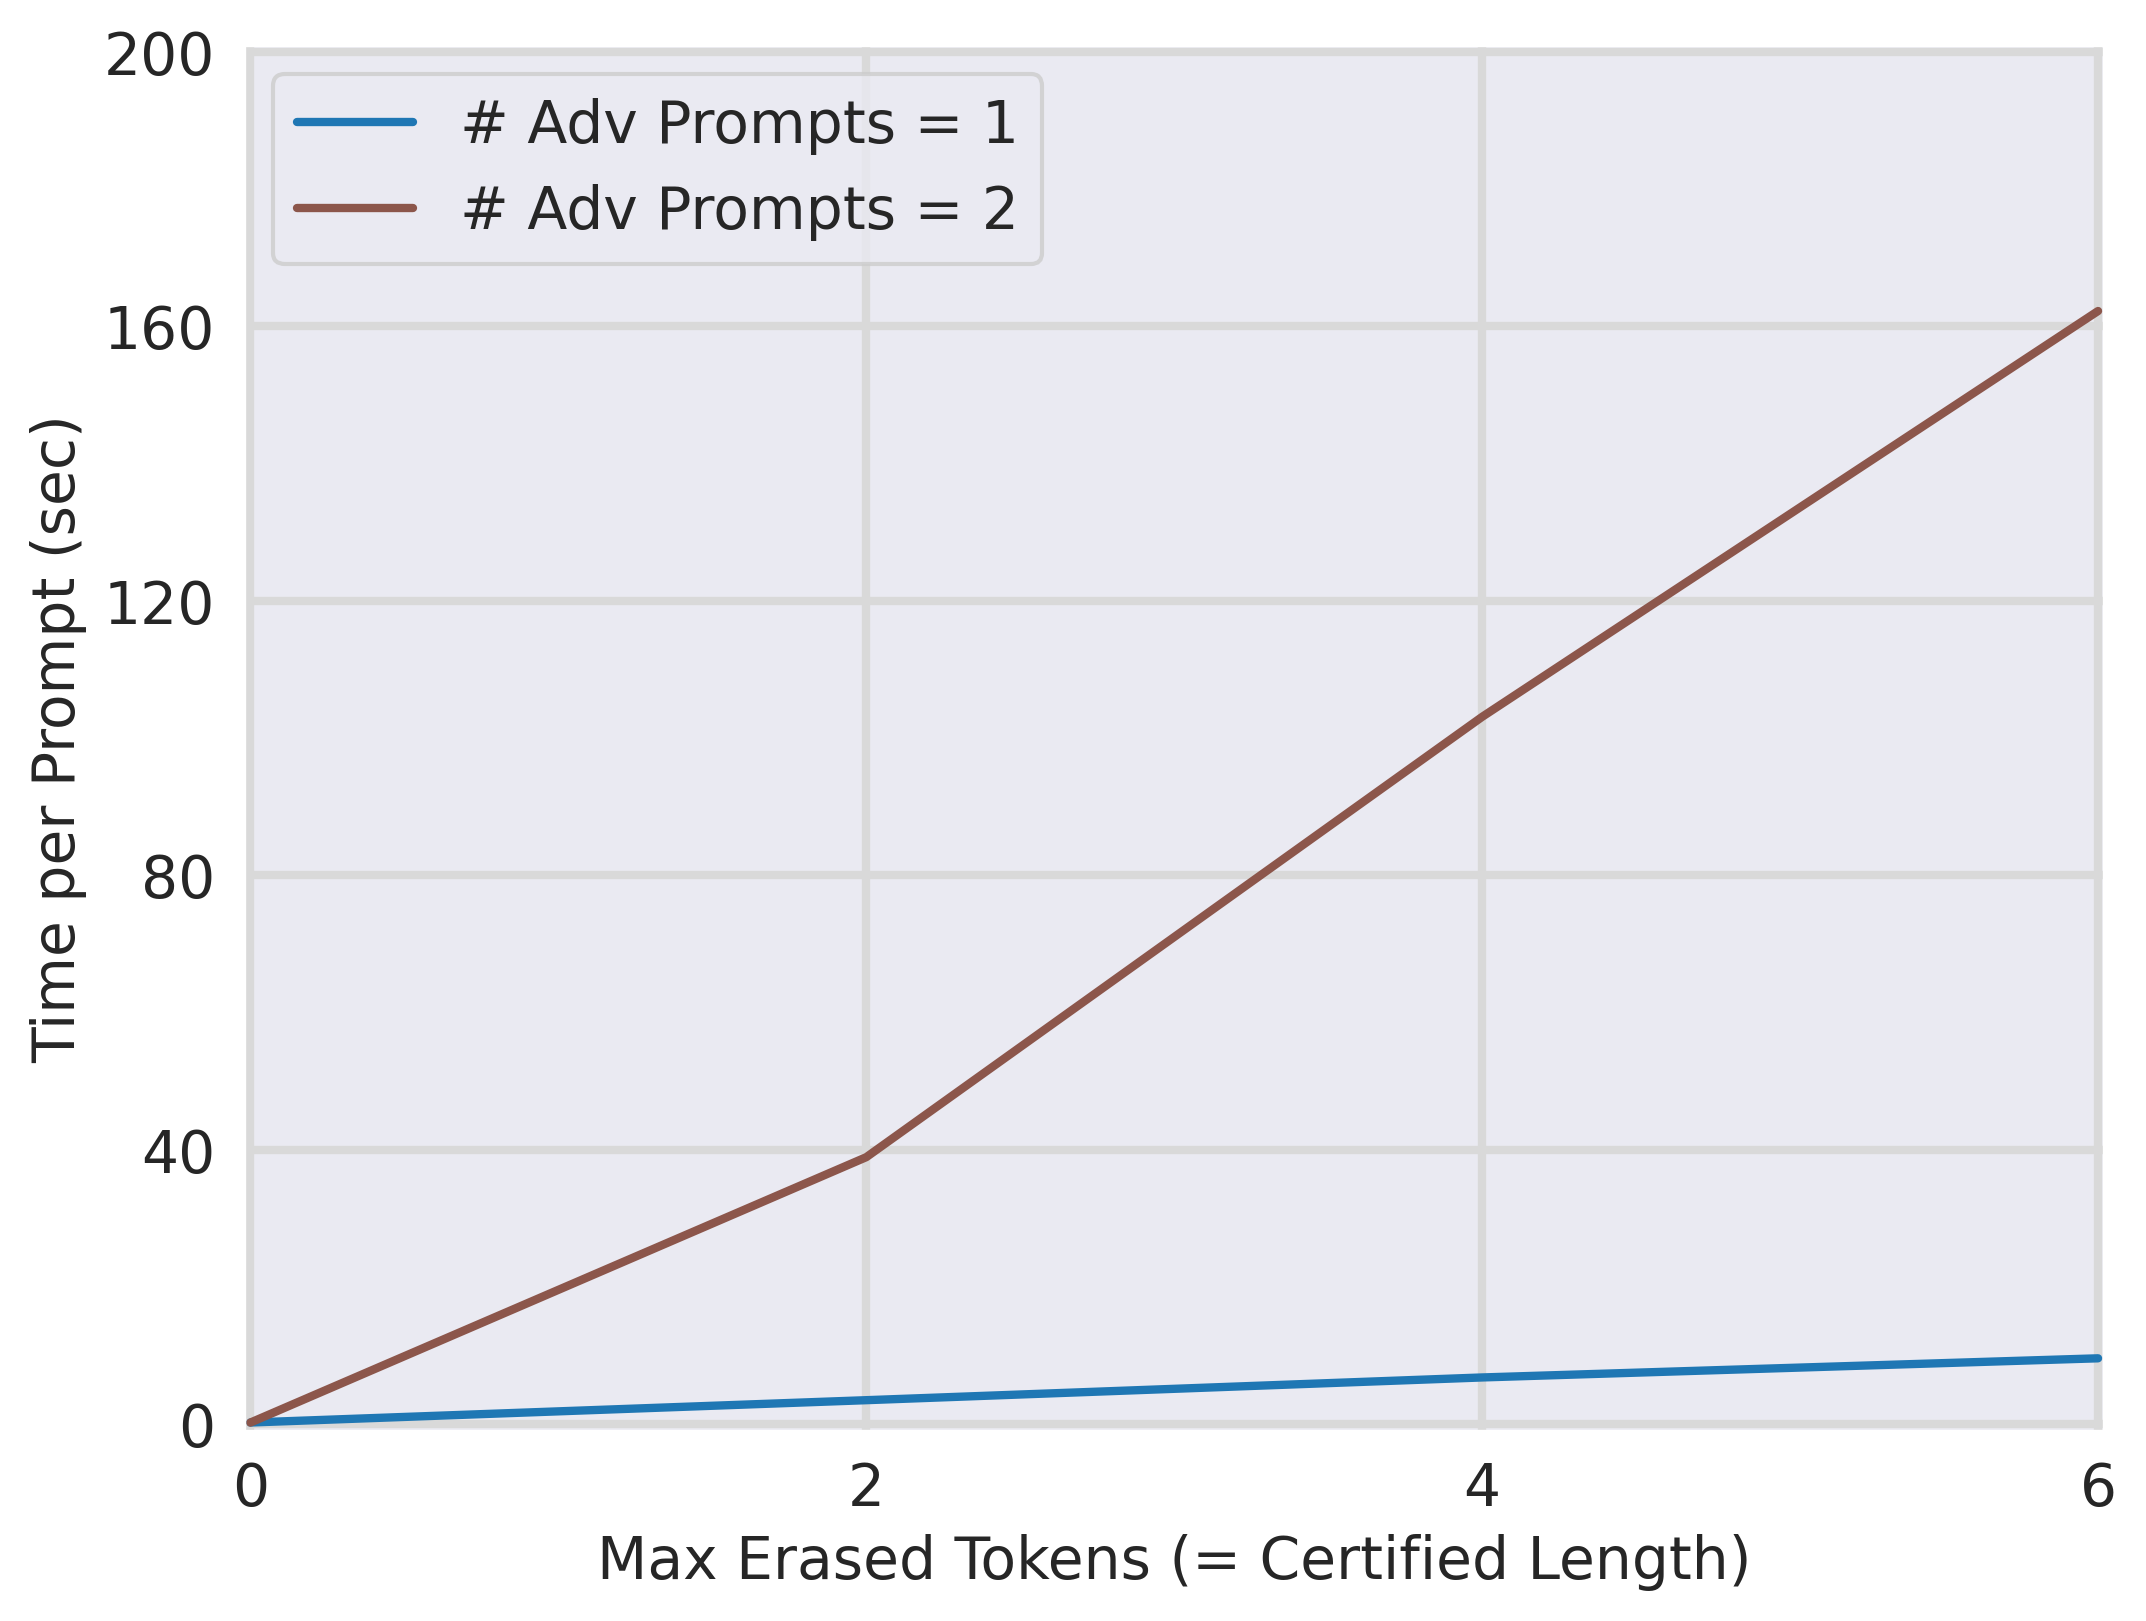
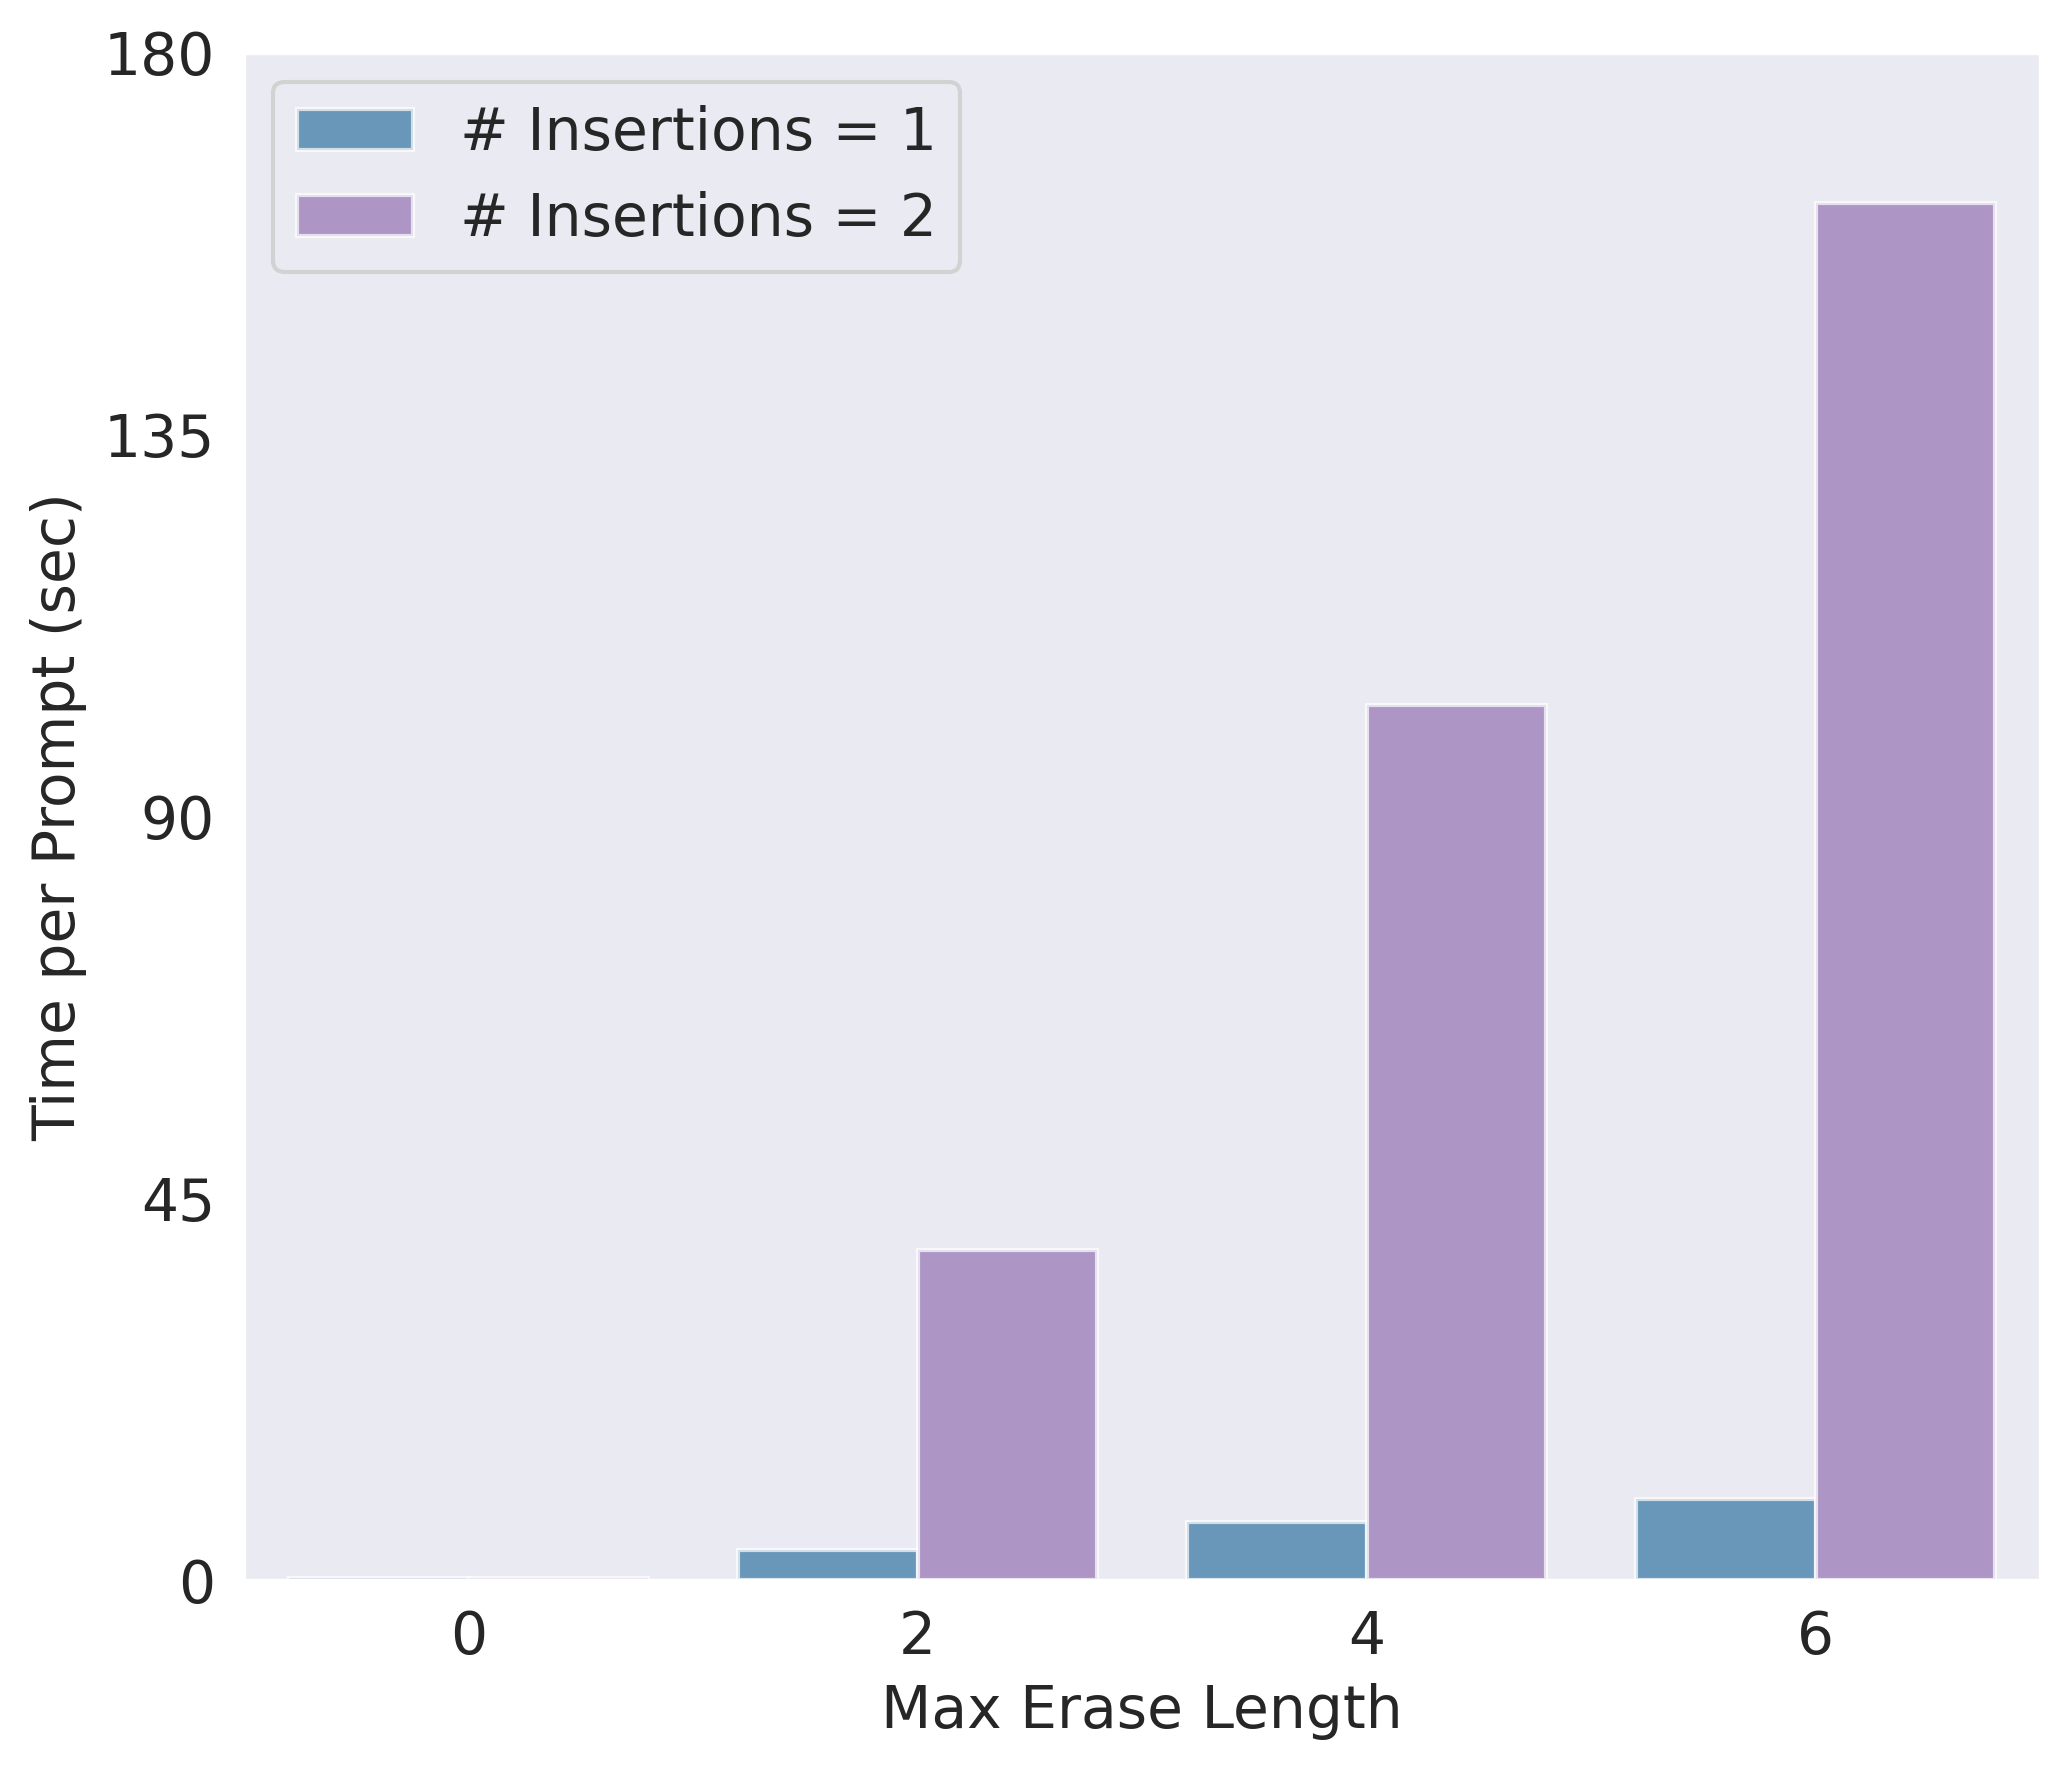
additional results and plots

diff --git a/defenses.py b/defenses.py
@@ -52,18 +52,27 @@ def is_harmful(prompts, pipeline, tokenizer, randomized=False, prompt_sampling_r
         response = seq[0]['generated_text']
         last_message = response.split("[/INST]\n")[-1].strip()
 
+        # print("RESPONSE: " + response)
+
         # Check for "Not harmful" in the last message
         if any([prefix in last_message for prefix in PREFIXES]):
             list_of_bools.append(False)
             # print("RESPONSE: " + response)
+            # print("False")
 
         else:
             list_of_bools.append(True)
             # print("RESPONSE: " + response)
+            # print("True")
+
+        # input("Press Enter to continue...")
 
     return list_of_bools
 
-def erase_and_check(prompt, pipeline, tokenizer, max_erase=20, min_length=4, randomized=False, prompt_sampling_ratio=0.1):
+def erase_and_check(prompt, pipeline, tokenizer, max_erase=20, min_length=4, num_adv=2, randomized=False, prompt_sampling_ratio=0.1, mode="suffix"):
+    if mode
+
+def erase_and_check_suffix(prompt, pipeline, tokenizer, max_erase=20, min_length=4, randomized=False, prompt_sampling_ratio=0.1):
     """
     Erase the prompt one token at a time from the end and check if any of the generated substrings is harmful.
     Args:
@@ -92,7 +101,7 @@ def erase_and_check(prompt, pipeline, tokenizer, max_erase=20, min_length=4, ran
     list_of_bools = is_harmful(prompt_list, pipeline, tokenizer, randomized=randomized, prompt_sampling_ratio=prompt_sampling_ratio)
     return any(list_of_bools)
 
-def erase_and_check_subsets(prompt, pipeline, tokenizer, max_erase=2, min_length=4, randomized=False, prompt_sampling_ratio=0.1):
+def erase_and_check_infusion(prompt, pipeline, tokenizer, max_erase=2, min_length=4, randomized=False, prompt_sampling_ratio=0.1):
     """
     Erase subsets of the prompt and check if any of the generated substrings is harmful.
     This method is a certifeid defense against attacks where adversarial tokens could be inserted anywhere in the prompt,
@@ -140,7 +149,7 @@ def delete_by_indices(data_list, indices):
     return data_list
 
 
-def erase_and_check_contiguous(prompt, pipeline, tokenizer, max_erase=5, min_length=4, num_adv=2, randomized=False, prompt_sampling_ratio=0.1):
+def erase_and_check_insertion(prompt, pipeline, tokenizer, max_erase=5, min_length=4, num_adv=2, randomized=False, prompt_sampling_ratio=0.1):
     """
     A generalized version of erase_and_check() that can defend against multiple adversarial prompts inserted into the prompt
     where each adversarial prompt is a contiguous block of adversarial tokens.

diff --git a/plot scripts/plot_acc.py b/plot scripts/plot_acc.py
@@ -25,18 +25,34 @@ for key, value in data.items():
 
 # Plotting
 sns.set_style("darkgrid", {"grid.color": ".85"})
-plt.figure(figsize=(8, 6))
-plt.plot(max_erase_values, percent_safe_values, '-', color='tab:green', label='Safe Prompts (%, empirical)', linewidth=2)
-plt.axhline(y=93.6, color='tab:blue', linewidth=2, linestyle='--', label='Certified Harmful Prompts (93.6%)')
-plt.xlabel('Max Erased Tokens (= Certified Length)', fontsize=14, labelpad=10)
-plt.ylabel('Accuracy (%)', fontsize=14)
-plt.xlim(-0.05, 12.05)
-plt.xticks(range(0, 13, 4))
+plt.figure(figsize=(7, 6))
+# plt.plot(max_erase_values, percent_safe_values, '-', color='tab:green', label='% Safe Prompts Labeled Safe', linewidth=2)
+plt.bar(max_erase_values[0:4], percent_safe_values[0:4], color='tab:green', width=(0.2 * max_erase_values[3]), alpha=0.7)
+# Write the values on top of the bars
+for i, v in enumerate(percent_safe_values[0:4]):
+    if i == 0:
+        plt.text(max_erase_values[i] - (0.08 * max_erase_values[3]),  v - 5, f'{v:.1f}%', color='white', fontsize=14)
+    elif i == 1:
+        plt.text(max_erase_values[i] - (0.07 * max_erase_values[3]),  v - 5, f'{v:.1f}%', color='white', fontsize=14)
+    else:
+        plt.text(max_erase_values[i] - (0.07 * max_erase_values[3]),  v + 1, f'{v:.1f}%', color='gray', fontsize=14)
+# plt.axhline(y=93.6, color='tab:blue', linewidth=2, linestyle='--', label='Certified Harmful Prompts (93.6%)')
+# plt.xlabel('Max Erase Length (= Certified Length)', fontsize=18, labelpad=10)
+plt.xlabel('Max Tokens Erased (= Certified Size)', fontsize=18, labelpad=10)
+plt.ylabel('% Safe Prompts Labeled Safe', fontsize=18)
+# plt.xlim(-0.05, 12.05)
+# plt.xticks(range(0, 13, 4))
 # plt.xlim(-0.1, 30.1)
 # plt.xticks(range(0, 31, 10))
-plt.ylim(-0.5, 100.5)
-plt.grid(True, linewidth=2)
-plt.legend(loc="lower right",fontsize=14)
+plt.xticks(max_erase_values[0:4])
+plt.ylim(0, 100)
+# plt.grid(True, linewidth=2)
+
+# plt.legend(loc="lower right",fontsize=18)
+# Remove grid lines
+plt.gca().yaxis.grid(False)
+plt.gca().xaxis.grid(False)
+
 plt.tick_params(axis='both', labelsize=14)
 plt.tight_layout()
 

diff --git a/main.py b/main.py
@@ -8,7 +8,7 @@ import json
 import random
 import argparse
 
-from defenses import erase_and_check, is_harmful, progress_bar, erase_and_check_contiguous, erase_and_check_subsets
+from defenses import erase_and_check_suffix, is_harmful, progress_bar, erase_and_check_insertion, erase_and_check_infusion
 
 parser = argparse.ArgumentParser(description='Check safety of prompts.')
 parser.add_argument('--num_prompts', type=int, default=2,
@@ -47,6 +47,8 @@ if eval_type == "safe":
     print("Maximum tokens to erase: " + str(max_erase))
     if mode == "contiguous":
         print("Number of adversarial prompts to defend against: " + str(num_adv))
+
+print("Randomize: " + str(args.randomize))
 
 # Create results directory if it doesn't exist
 if not os.path.exists(results_dir):
@@ -95,13 +97,13 @@ if eval_type == "safe":
     for i in range(num_prompts):
         prompt = prompts[i]
         if mode == "suffix":
-            harmful = erase_and_check(prompt, pipeline, tokenizer, max_erase=max_erase, 
+            harmful = erase_and_check_suffix(prompt, pipeline, tokenizer, max_erase=max_erase, 
                                       randomized=args.randomize, prompt_sampling_ratio=args.sampling_ratio)
         elif mode == "subset":
-            harmful = erase_and_check_subsets(prompt, pipeline, tokenizer, max_erase=max_erase,
+            harmful = erase_and_check_infusion(prompt, pipeline, tokenizer, max_erase=max_erase,
                                       randomized=args.randomize, prompt_sampling_ratio=args.sampling_ratio)
         elif mode == "contiguous":
-            harmful = erase_and_check_contiguous(prompt, pipeline, tokenizer, max_erase=max_erase, num_adv=num_adv,
+            harmful = erase_and_check_insertion(prompt, pipeline, tokenizer, max_erase=max_erase, num_adv=num_adv,
                                       randomized=args.randomize, prompt_sampling_ratio=args.sampling_ratio)
         if not harmful:
             count_safe += 1

diff --git a/plot scripts/plot_acc_multi.py b/plot scripts/plot_acc_multi.py
@@ -34,22 +34,30 @@ df = pd.DataFrame(plot_data)
 sns.set_style("darkgrid", {"grid.color": ".85"})
 
 # Create the plot
-colors = ['tab:green', 'tab:purple']
-plt.figure(figsize=(8, 6))
-for num_adv in [1, 2]:
-    subset = df[df['num_adv'] == num_adv]
-    plt.plot(subset['max_erase'], subset['percent_safe'], label=f'# Adv Prompts = {num_adv}', linewidth=2, color=colors[num_adv - 1])
+colors = ['tab:green', 'tab:olive']
+plt.figure(figsize=(7, 6))
+# Bar plot
+sns.barplot(x='max_erase', y='percent_safe', hue='num_adv', data=df, palette=colors, alpha=0.7)
+# for num_adv in [1, 2]:
+#     subset = df[df['num_adv'] == num_adv]
+#     # plt.plot(subset['max_erase'], subset['percent_safe'], label=f'# Adv Prompts = {num_adv}', linewidth=2, color=colors[num_adv - 1])
+#     plt.bar(subset['max_erase'], subset['percent_safe'], color=colors[num_adv - 1], alpha=0.5, width=1, label=f'# Adv Prompts = {num_adv}')
 
 # Set the labels, title, and legend
-plt.xlabel("Max Erased Tokens (= Certified Length)", fontsize=14)
-plt.ylabel("Accuracy (%)", fontsize=14)
-plt.legend(loc='lower right', fontsize=14)
+plt.xlabel("Max Erase Length (= Certified Length)", fontsize=14)
+plt.ylabel("% Safe Prompts Labeled Safe", fontsize=14)
+# plt.legend(loc='lower right', fontsize=14)
+# change labels for the bar plots in the legend
+handles, labels = plt.gca().get_legend_handles_labels()
+labels = ['# Insertions = 1', '# Insertions = 2']
+plt.legend(handles, labels, loc='lower right', fontsize=14)
+
 plt.xticks(fontsize=14)
-plt.xlim(-0.02, 6.02)
-plt.xticks(range(0, 7, 2))
-plt.ylim(-0.5, 100.5)
+# plt.xlim(-0.02, 6.02)
+# plt.xticks(df['max_erase'])
+plt.ylim(0, 100)
 plt.yticks(fontsize=14)
-plt.grid(True, linewidth=2)
+plt.grid(False)
 
 # Save the plot to a PNG file
 plot_file = results_file.replace('.json', '_acc.png')

diff --git a/plot scripts/plot_time_multi.py b/plot scripts/plot_time_multi.py
@@ -34,21 +34,30 @@ df = pd.DataFrame(plot_data)
 sns.set_style("darkgrid", {"grid.color": ".85"})
 
 # Create the plot
-colors = ['tab:blue', 'tab:brown']
-plt.figure(figsize=(8, 6))
-for num_adv in [1, 2]:
-    subset = df[df['num_adv'] == num_adv]
-    plt.plot(subset['max_erase'], subset['time_per_prompt'], label=f'# Adv Prompts = {num_adv}', linewidth=2, color=colors[num_adv - 1])
+colors = ['tab:blue', 'tab:purple']
+plt.figure(figsize=(7, 6))
+# Bar plot
+sns.barplot(x='max_erase', y='time_per_prompt', hue='num_adv', data=df, palette=colors, alpha=0.7)
+# for num_adv in [1, 2]:
+#     subset = df[df['num_adv'] == num_adv]
+#     plt.plot(subset['max_erase'], subset['time_per_prompt'], label=f'# Adv Prompts = {num_adv}', linewidth=2, color=colors[num_adv - 1])
 
 # Set the labels, title, and legend
-plt.xlabel("Max Erased Tokens (= Certified Length)", fontsize=14)
+plt.xlabel("Max Erase Length", fontsize=14)
 plt.ylabel("Time per Prompt (sec)", fontsize=14)
-plt.legend(loc='upper left', fontsize=14)
-plt.xlim(-0.02, 6.02)
-plt.xticks(range(0, 7, 2), fontsize=14)
-plt.ylim(-1, 201)
-plt.yticks(range(0, 201, 40), fontsize=14)
-plt.grid(True, linewidth=2)
+# plt.legend(loc='upper left', fontsize=14)
+# change labels for the bar plots in the legend
+handles, labels = plt.gca().get_legend_handles_labels()
+labels = ['# Insertions = 1', '# Insertions = 2']
+plt.legend(handles, labels, loc='upper left', fontsize=14)
+# plt.xlim(-0.02, 6.02)
+# plt.xticks(range(0, 7, 2), fontsize=14)
+plt.ylim(0, 180)
+plt.yticks(range(0, 181, 45), fontsize=14)
+plt.grid(False)
+
+plt.tick_params(axis='both', labelsize=14)
+plt.tight_layout()
 
 # Save the plot to a PNG file
 plot_file = results_file.replace('.json', '_time.png')

diff --git a/plot scripts/plot_time.py b/plot scripts/plot_time.py
@@ -26,24 +26,36 @@ for key, value in data.items():
 
 # Plotting
 sns.set_style("darkgrid", {"grid.color": ".85"})
-plt.figure(figsize=(8, 6))
-plt.plot(max_erase_values, time_per_prompt_values, linewidth=2)
-plt.xlabel('Max Erased Tokens', fontsize=14, labelpad=10)
-plt.ylabel('Time per Prompt (sec)', fontsize=14, labelpad=10)
+plt.figure(figsize=(7, 6))
+# plt.plot(max_erase_values, time_per_prompt_values, linewidth=2)
+plt.bar(max_erase_values[0:4], time_per_prompt_values[0:4], color='tab:blue', alpha=0.7, width=(0.2 * max_erase_values[3]))
+# Write the values on top of the bars
+for i, v in enumerate(time_per_prompt_values[0:4]):
+    plt.text(max_erase_values[i] - (0.06 * max_erase_values[3]),  v + 0.6, f'{v:.2f}', color='gray', fontsize=14)
+# plt.xlabel('Max Erase Length', fontsize=18, labelpad=10)
+plt.xlabel('Max Tokens Erased', fontsize=18, labelpad=10)
+plt.ylabel('Time per Prompt (sec)', fontsize=18, labelpad=10)
 
-plt.xlim(-0.05, 12.04)
-plt.xticks(range(0, 13, 4))
-plt.ylim(-0.09, 15.09)
-plt.yticks(np.arange(0, 15.1, 3))
-
-# plt.xlim(-0.1, 30.1)
-# plt.xticks(range(0, 31, 10))
-# plt.ylim(-0.01, 1.81)
+# plt.xlim(-0.05, 12.04)
+# plt.xticks(range(0, 13, 4))
+# plt.ylim(0, 15)
+# plt.yticks(np.arange(0, 15.1, 3))
+plt.ylim(0, 80)
+plt.yticks(np.arange(0, 81, 20))
+# plt.ylim(0, 1.8)
 # plt.yticks(np.arange(0, 1.81, 0.3))
 
-plt.grid(True, linewidth=2)
+# plt.xlim(-0.1, 30.1)
+plt.xticks(max_erase_values[0:4])
+
+
+# plt.grid(True, linewidth=2)
 plt.tick_params(axis='both', labelsize=14)
 plt.tight_layout()
+
+# Remove grid lines
+plt.gca().yaxis.grid(False)
+plt.gca().xaxis.grid(False)
 
 # Save the figure
 plot_file = results_file.replace('.json', '_time.png')
